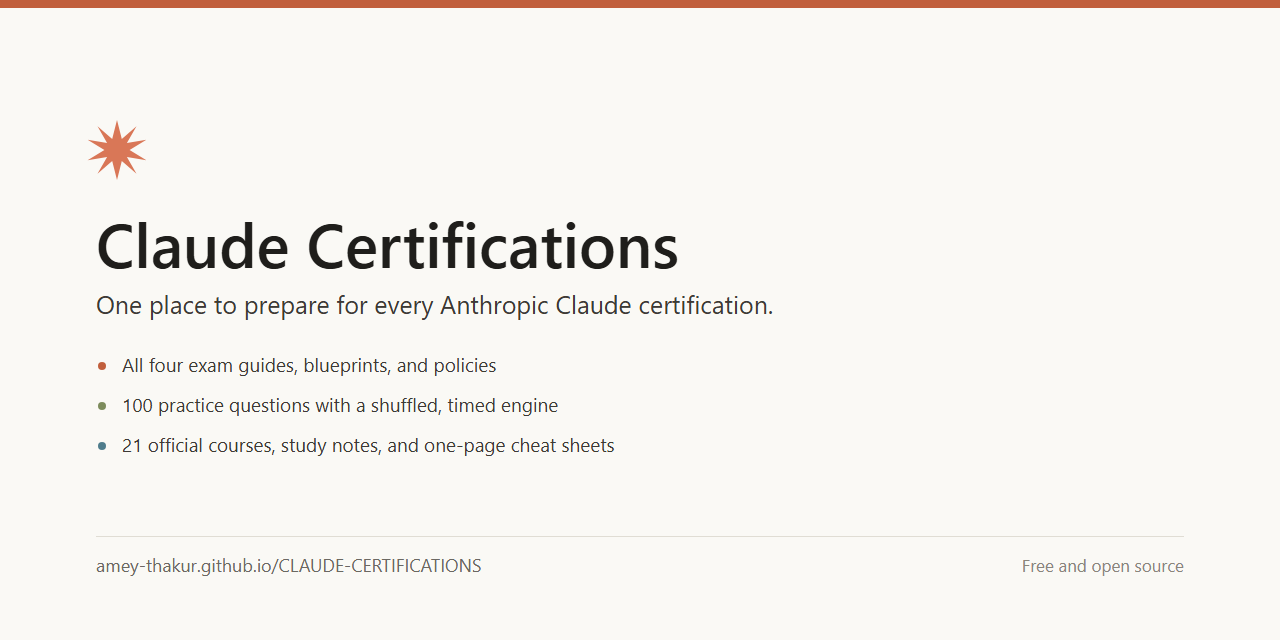
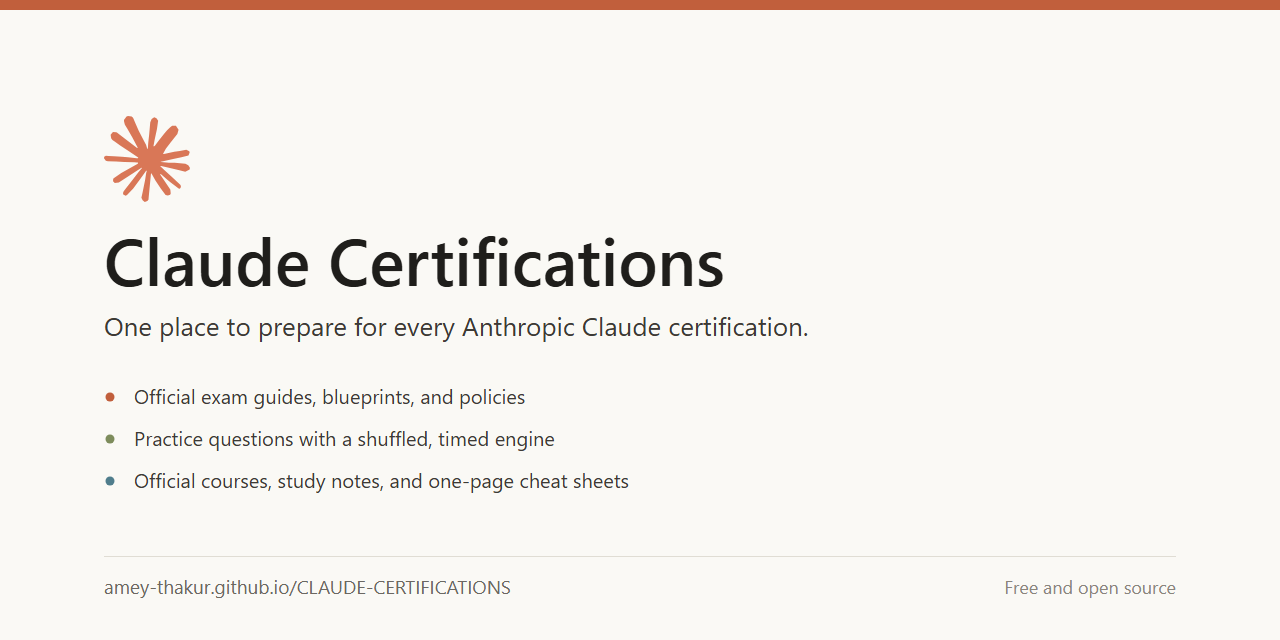
Claude Certifications

diff --git a/.github/assets/logos/README.md b/.github/assets/logos/README.md
@@ -8,4 +8,6 @@
 | anthropic-wordmark-dark.svg | Recolored copy of the above for dark backgrounds | Public domain |
 | claude-symbol-ivory.svg | Recolored copy of the Claude symbol for the website header | CC0 |
 
+The shareable images `roadmap.svg` and `social-preview.svg`, and their rendered PNGs, embed the Claude symbol path from the CC0 file above; they are the maintainer's own layout and content.
+
 The artwork files are public domain or CC0 as simple text and geometric marks. The Claude and Anthropic names and marks themselves are trademarks of Anthropic PBC; they are used here only to refer to Anthropic's certification program, which this repository documents. This project is not affiliated with or endorsed by Anthropic.
